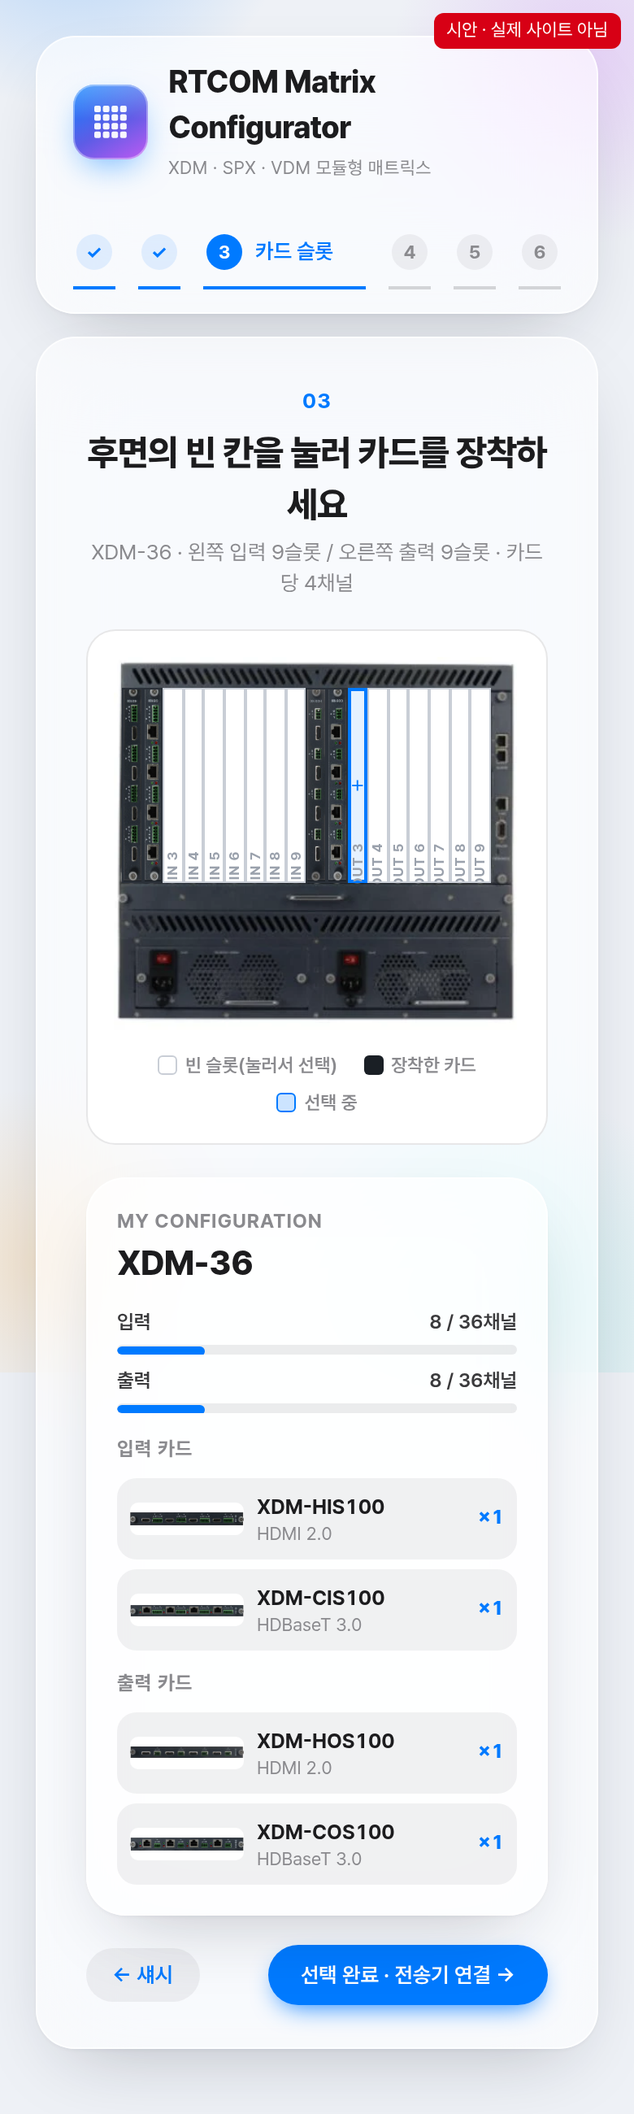
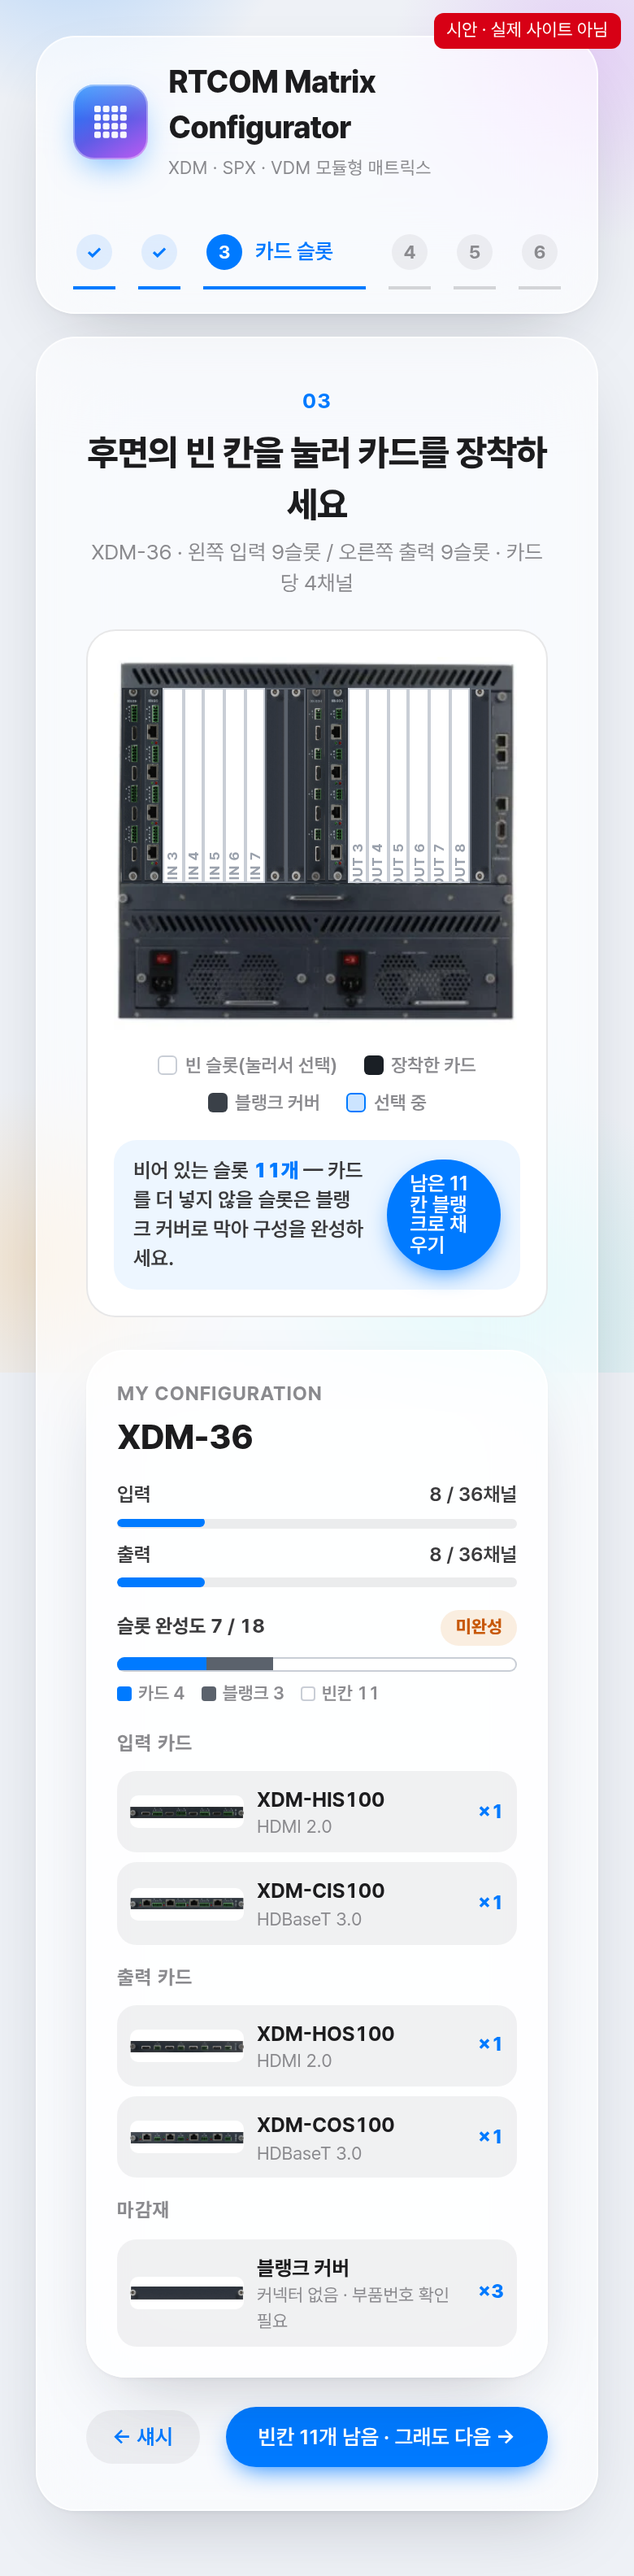
docs: 구성기 블랭크 커버 선택·완성도 시안과 규칙
Claude-Session: https://claude.ai/code/session_01V3dms2CC6NHWtyRSKKrJnV

diff --git a/docs/mockups/configurator-aw-style.html b/docs/mockups/configurator-aw-style.html
@@ -59,6 +59,19 @@ background:radial-gradient(58vw 58vw at 12% -8%,rgba(0,122,255,.28),transparent 
 .crow{display:grid;grid-template-columns:70px 1fr auto;gap:8px;align-items:center;padding:7px 8px;border-radius:12px;background:var(--field);margin-top:6px}
 .crow img{width:70px;height:20px;object-fit:contain;background:#fff;border-radius:5px}.crow b{font-size:12.5px}.crow small{display:block;font-size:11px;color:var(--muted)}.crow em{font-style:normal;font-size:12px;font-weight:800;color:var(--accent)}
 .io .foot{display:flex;justify-content:space-between;align-items:center;margin-top:18px}
+/* 블랭크 커버 · 완성도 */
+.slot.blank{border-color:#5b626c;background:#3a4048}
+.slot.blank img{width:100cqh;height:100cqw;object-fit:fill;transform:rotate(-90deg);flex:none;position:absolute;opacity:.95}
+.fillbar{display:flex;align-items:center;justify-content:space-between;gap:12px;width:100%;margin-top:14px;padding:10px 12px;border-radius:14px;background:rgba(0,122,255,.07)}
+.fillbar span{font-size:12.5px;color:var(--ink-2);font-weight:600}.fillbar b{color:var(--accent)}
+.comp{margin:14px 0 4px}.comp .head{display:flex;justify-content:space-between;align-items:center;font-size:12px;font-weight:700;color:var(--ink-2)}
+.pill{font-size:11px;font-weight:800;padding:3px 9px;border-radius:980px}.pill.no{background:rgba(224,138,32,.14);color:#C7590A}.pill.ok{background:rgba(30,158,82,.14);color:#177A41}
+.segbar{display:flex;height:9px;border-radius:9px;overflow:hidden;background:#fff;box-shadow:inset 0 0 0 1px #c9ced6;margin-top:7px}.segbar i{display:block;height:100%}
+.segleg{display:flex;gap:10px;flex-wrap:wrap;margin-top:6px;font-size:11px;color:var(--muted);font-weight:600}.segleg i{display:inline-block;width:9px;height:9px;border-radius:2px;margin-right:4px;vertical-align:-1px}
+.done-banner{display:flex;align-items:center;justify-content:center;gap:10px;margin:0 auto 14px;padding:8px 14px;border-radius:980px;background:rgba(30,158,82,.12);color:#177A41;font-weight:700;font-size:13px;width:max-content}
+.choice.blankopt img{background:#3a4048}
+.choice .zero{color:var(--muted);background:var(--field)}
+.sep{font-size:11px;color:var(--muted);font-weight:700;letter-spacing:.04em;text-transform:uppercase;margin:10px 2px 6px}
 /* 카드 선택 팝업 */
 .modal{position:absolute;left:50%;top:120px;transform:translateX(-50%);width:560px;padding:20px;text-align:left;background:rgba(255,255,255,.9);z-index:3}
 .scrim{position:absolute;inset:0;background:rgba(28,28,30,.25);border-radius:24px;z-index:2}
@@ -101,20 +114,26 @@ ${foot('제품군','카드 슬롯 구성')}</div>
 <div class="prev"><span class="seg"><span class="on">정면</span><span>후면</span></span><img class="hero" src="${F}xdm-36-front.webp" alt=""><div class="cap"><b>XDM-36</b><span>9U · 입력 9 / 출력 9 슬롯 · 최대 36×36</span></div><div class="chips"><em>이중화 전원</em><em>핫스왑</em><em>전면 LCD 터치</em></div></div></section>`;
 // 03 카드 슬롯: rearPhotos['XDM-36'] 좌표 그대로
 const W=452,H=419,IN=[9,34,214,252],OUT=[214,34,419,252];
-const placed={'in-1':'XDM-HIS100','in-2':'XDM-CIS100','out-1':'XDM-HOS100','out-2':'XDM-COS100'};
-const zone=(dir,[x0,y0,x1,y1],sel)=>`<div class="zone" style="left:${x0/W*100}%;top:${y0/H*100}%;width:${(x1-x0)/W*100}%;height:${(y1-y0)/H*100}%;grid-template-columns:repeat(9,1fr)">${Array.from({length:9},(_,i)=>{const id=`${dir}-${i+1}`,c=placed[id];return `<div class="slot ${c?'filled':''} ${id===sel?'sel':''}">${c?`<img src="${C}${c}.webp" alt="">`:`<span class="plus">+</span><span class="no">${dir==='in'?'IN':'OUT'} ${i+1}</span>`}</div>`}).join('')}</div>`;
+const BASE={'in-1':'XDM-HIS100','in-2':'XDM-CIS100','out-1':'XDM-HOS100','out-2':'XDM-COS100'};
+let placed=BASE;
+const allIds=[...Array.from({length:9},(_,i)=>'in-'+(i+1)),...Array.from({length:9},(_,i)=>'out-'+(i+1))];
+const zone=(dir,[x0,y0,x1,y1],sel)=>`<div class="zone" style="left:${x0/W*100}%;top:${y0/H*100}%;width:${(x1-x0)/W*100}%;height:${(y1-y0)/H*100}%;grid-template-columns:repeat(9,1fr)">${Array.from({length:9},(_,i)=>{const id=`${dir}-${i+1}`,c=placed[id],bl=c==='BLANK';return `<div class="slot ${bl?'blank':c?'filled':''} ${id===sel?'sel':''}">${c?`<img src="${C}${bl?'XDM-BLANK':c}.webp" alt="">`:`<span class="plus">+</span><span class="no">${dir==='in'?'IN':'OUT'} ${i+1}</span>`}</div>`}).join('')}</div>`;
 const row=(c,t)=>`<div class="crow"><img src="${C}${c}.webp" alt=""><div><b>${c}</b><small>${t}</small></div><em>×1</em></div>`;
-const io=(sel,modal)=>bar(3)+`<section class="glass io rel"><span class="idx">03</span><h2>후면의 빈 칸을 눌러 카드를 장착하세요</h2><p class="sub">XDM-36 · 왼쪽 입력 9슬롯 / 오른쪽 출력 9슬롯 · 카드당 4채널</p>
+const io=(sel,modal)=>{const cards=allIds.filter(i=>placed[i]&&placed[i]!=='BLANK').length,blanks=allIds.filter(i=>placed[i]==='BLANK').length,empty=18-cards-blanks,done=!empty;return bar(3)+`<section class="glass io rel"><span class="idx">03</span>${done?'<div class="done-banner">✓ 18개 슬롯을 모두 채웠습니다 · 구성 완성</div>':''}<h2>후면의 빈 칸을 눌러 카드를 장착하세요</h2><p class="sub">XDM-36 · 왼쪽 입력 9슬롯 / 오른쪽 출력 9슬롯 · 카드당 4채널</p>
 <div class="io-grid"><div class="rackwrap"><div class="rack"><img src="${F}xdm-36-rear.webp" alt="">${zone('in',IN,sel)}${zone('out',OUT,sel)}</div>
-<div class="legend"><span><i style="background:#fff;border:1px solid #c9ced6"></i>빈 슬롯(눌러서 선택)</span><span><i style="background:#1a1f25"></i>장착한 카드</span><span><i style="background:rgba(0,122,255,.2);border:1.5px solid #007AFF"></i>선택 중</span></div></div>
+<div class="legend"><span><i style="background:#fff;border:1px solid #c9ced6"></i>빈 슬롯(눌러서 선택)</span><span><i style="background:#1a1f25"></i>장착한 카드</span><span><i style="background:#3a4048"></i>블랭크 커버</span><span><i style="background:rgba(0,122,255,.2);border:1.5px solid #007AFF"></i>선택 중</span></div>
+${empty?`<div class="fillbar"><span>비어 있는 슬롯 <b>${empty}개</b> — 카드를 더 넣지 않을 슬롯은 블랭크 커버로 막아 구성을 완성하세요.</span><span class="btn primary" style="padding:9px 14px">남은 ${empty}칸 블랭크로 채우기</span></div>`:''}</div>
 <aside class="glass summary"><h3>My configuration</h3><div class="m">XDM-36</div>
 <div class="meter"><div><span>입력</span><span>8 / 36채널</span></div><span><i style="width:22%"></i></span></div><div class="meter"><div><span>출력</span><span>8 / 36채널</span></div><span><i style="width:22%"></i></span></div>
-<p class="grp" style="margin-top:14px">입력 카드</p>${row('XDM-HIS100','HDMI 2.0')}${row('XDM-CIS100','HDBaseT 3.0')}<p class="grp" style="margin-top:12px">출력 카드</p>${row('XDM-HOS100','HDMI 2.0')}${row('XDM-COS100','HDBaseT 3.0')}</aside></div>
-<div class="foot"><span class="btn">← 섀시</span><span class="btn primary">선택 완료 · 전송기 연결 →</span></div>
-${modal?`<div class="scrim"></div><div class="modal glass"><h3>OUT 3 · 출력 카드 선택</h3><p>XDM 출력 카드 6종 · 모두 4채널</p>
-${[['XDM-HOS100','HDMI 2.0 · 월·쿼드',0],['XDM-WOS100','HDMI · Wall Overlay',0],['XDM-DPOS100','DisplayPort 1.2',0],['XDM-SOS100','12G-SDI',1],['XDM-COS100','HDBaseT 3.0 · POE',0],['XDM-FOS100','광 1LC',0]].map(c=>`<div class="choice ${c[2]?'on':''}"><img src="${C}${c[0]}.webp" alt=""><div><b>${c[0]}</b><small>${c[1]}</small></div><em>4포트</em></div>`).join('')}
-<div style="display:flex;justify-content:space-between;margin-top:10px"><span class="btn">슬롯 비우기</span><span class="btn">닫기</span></div></div>`:''}</section>`;
+<div class="comp"><div class="head"><span>슬롯 완성도 ${cards+blanks} / 18</span><span class="pill ${done?'ok':'no'}">${done?'완성':'미완성'}</span></div><div class="segbar"><i style="width:${cards/18*100}%;background:#007AFF"></i><i style="width:${blanks/18*100}%;background:#5b626c"></i></div><div class="segleg"><span><i style="background:#007AFF"></i>카드 ${cards}</span><span><i style="background:#5b626c"></i>블랭크 ${blanks}</span><span><i style="background:#fff;box-shadow:inset 0 0 0 1px #c9ced6"></i>빈칸 ${empty}</span></div></div>
+<p class="grp" style="margin-top:14px">입력 카드</p>${row('XDM-HIS100','HDMI 2.0')}${row('XDM-CIS100','HDBaseT 3.0')}<p class="grp" style="margin-top:12px">출력 카드</p>${row('XDM-HOS100','HDMI 2.0')}${row('XDM-COS100','HDBaseT 3.0')}${blanks?`<p class="grp" style="margin-top:12px">마감재</p><div class="crow"><img src="${C}XDM-BLANK.webp" alt=""><div><b>블랭크 커버</b><small>커넥터 없음 · 부품번호 확인 필요</small></div><em>×${blanks}</em></div>`:''}</aside></div>
+<div class="foot"><span class="btn">← 섀시</span><span class="btn primary">${done?'선택 완료 · 전송기 연결 →':`빈칸 ${empty}개 남음 · 그래도 다음 →`}</span></div>
+${modal?`<div class="scrim"></div><div class="modal glass"><h3>OUT 3 · 출력 카드 선택</h3><p>카드를 넣지 않을 슬롯은 블랭크 커버로 막습니다.</p><div class="choice blankopt on"><img src="${C}XDM-BLANK.webp" alt=""><div><b>블랭크 커버</b><small>커넥터 없음 · 빈 슬롯 마감</small></div><em class="zero">0포트</em></div><p class="sep">출력 카드 6종 · 4채널</p>
+${[['XDM-HOS100','HDMI 2.0 · 월·쿼드',0],['XDM-WOS100','HDMI · Wall Overlay',0],['XDM-DPOS100','DisplayPort 1.2',0],['XDM-SOS100','12G-SDI',0],['XDM-COS100','HDBaseT 3.0 · POE',0],['XDM-FOS100','광 1LC',0]].map(c=>`<div class="choice ${c[2]?'on':''}"><img src="${C}${c[0]}.webp" alt=""><div><b>${c[0]}</b><small>${c[1]}</small></div><em>4포트</em></div>`).join('')}
+<div style="display:flex;justify-content:space-between;margin-top:10px"><span class="btn">슬롯 비우기(흰 칸)</span><span class="btn">닫기</span></div></div>`:''}</section>`};
 S['3']=io('out-3',false);S['3m']=io('out-3',true);
+placed={...BASE,'in-8':'BLANK','in-9':'BLANK','out-9':'BLANK'};S['3b']=io('',false);
+placed=Object.fromEntries(allIds.map(i=>[i,BASE[i]||'BLANK']));S['3c']=io('',false);placed=BASE;
 S['4']=bar(4)+`<section class="glass split"><div class="pick"><span class="idx">04</span><h2>카드에 연결할 전송기를 확인하세요</h2><p class="sub">HDBaseT·광 카드 2장에 기본 전송기를 연결했습니다.</p>
 <p class="grp">IN 2 · XDM-CIS100 · 입력 4채널</p>
 ${opt('XDM-CTR100','송신(TX) · 기본 연동',['4K60 4:4:4 · CAT6A 100m / CAT6 80m','전원 직접 연결(카드 직결 시 PSE 불가)'],1)}

diff --git a/docs/audit/ANALOGWAY_CONFIGURATOR_RECHECK_2026-09-27.md b/docs/audit/ANALOGWAY_CONFIGURATOR_RECHECK_2026-09-27.md
@@ -31,3 +31,30 @@
 ## 시안 (2026-09-27)
 
 `docs/mockups/configurator-aw-style.html?step=1|2|3|3m|4`와 캡처 `configurator-aw-*.png`(PC), `-mobile.png`(390px). 03 카드 슬롯은 `rearPhotos['XDM-36']` 좌표를 그대로 썼습니다.
+
+## 블랭크 커버 선택 (사용자 결정 2026-09-27)
+
+> "블랭크 슬롯은 슬롯을 전부 꽉 채우지 않았을 때 블랭크 슬롯을 선택할 수 있게 해서 완성할 수 있게 해 줘"
+
+Analog Way도 카드 목록에 `FILLER (no connector)`를 함께 둡니다. RTCOM도 같은 방식을 씁니다.
+
+### 동작
+1. 카드를 꽂지 않은 슬롯은 **흰 빈칸**입니다. 이 상태는 "미완성"입니다.
+2. 슬롯을 누르면 팝업 **맨 위에 "블랭크 커버(커넥터 없음 · 0포트)"**가 있고, 그 아래 입력·출력 카드 목록이 나옵니다.
+3. 팝업 아래 버튼: `슬롯 비우기(흰 칸)`는 카드나 블랭크를 빼서 흰 칸으로 되돌리고, `닫기`는 그냥 닫습니다.
+4. 후면 아래에 `비어 있는 슬롯 N개 — … 남은 N칸 블랭크로 채우기` 버튼 줄이 있습니다. 누르면 **흰 칸만** 한꺼번에 블랭크로 바꿉니다. 이미 넣은 카드는 건드리지 않습니다. 이 동작도 실행 취소 1단계로 기록합니다.
+5. 오른쪽 요약에 `슬롯 완성도 N / 전체`, 3색 막대(카드 파랑 · 블랭크 회색 · 빈칸 흰색), `미완성`/`완성` 배지를 둡니다. 블랭크는 "마감재" 묶음으로 수량을 셉니다.
+6. 모든 슬롯이 카드나 블랭크면 위에 `✓ N개 슬롯을 모두 채웠습니다 · 구성 완성` 배너를 띄우고, 다음 버튼 문구가 `선택 완료 · 전송기 연결 →`이 됩니다. 빈칸이 남아 있으면 `빈칸 N개 남음 · 그래도 다음 →`입니다. **막지는 않습니다.**
+7. 05 구성 검토에 `SLOT_INCOMPLETE`(WARNING) 항목을 추가합니다: "빈 슬롯 N개에 카드나 블랭크 커버가 지정되지 않았습니다." 인쇄·CSV 보고서에도 같은 문구가 들어갑니다.
+8. BOM에는 `블랭크 커버 (XDM|SPX|VDM) × N`을 넣고 "부품번호·기본 포함 여부 제조사 확인 필요"로 표시합니다(UNVERIFIED). 블랭크가 프레임에 기본 포함인지, 따로 주문하는 품목인지 자료가 없기 때문입니다.
+9. 채널 계산(입력·출력 N / 전체 채널)에는 블랭크를 0채널로 넣습니다.
+
+### 데이터 (호환성 계약 검토)
+- 저장 형식: 기존 `placements[slotId]`에 카드 id 대신 **예약값 `"BLANK"`**를 넣습니다. schema 3, `rtcom.configuration.v1` 키, `catalogVersion`, 슬롯 ID는 **바꾸지 않습니다.**
+- `catalog.js`에는 블랭크를 카드로 추가하지 않습니다. 따라서 구성기 카드 수 3/21/26 계약은 그대로입니다. `core.js`의 검증은 `"BLANK"`를 모든 제품군·모든 방향 슬롯에 허용하는 특수값으로 처리합니다.
+- 이전 버전(0.31 이하)에서 `"BLANK"`가 든 파일을 열면 알 수 없는 카드로 거부됩니다(구버전 → 신버전 방향만 호환). 이 점을 CHANGELOG에 적습니다.
+- 흰 칸이 기본이 되므로, 지금 빈 슬롯에 자동으로 씌우던 블랭크 커버 그림(`blankPlates`)은 **사용자가 블랭크를 고른 슬롯에만** 씁니다. `XDM-BLANK.webp` 같은 파일은 그대로 둡니다.
+- 테스트: `"BLANK"` 저장·복원, 제품군 변경 시 초기화, 한꺼번에 채우기가 흰 칸만 바꾸는지, 완성도 계산, BOM 행, `SLOT_INCOMPLETE` 경고.
+
+### 시안
+`configurator-aw-3cards-modal.png`(팝업 맨 위 블랭크), `-partial.png`(카드 4 · 블랭크 3 · 빈칸 11, 미완성), `-complete.png`(카드 4 · 블랭크 14, 완성), `-mobile.png`
